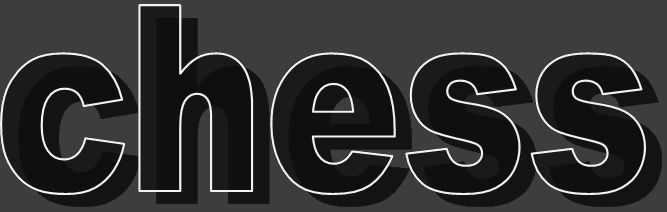
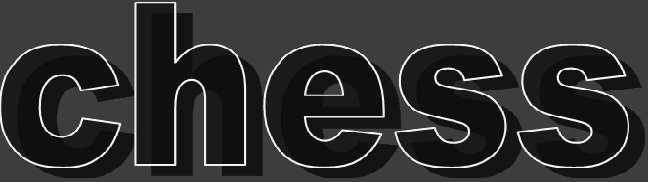
wojtektocfel

diff --git a/views/gui_view.py b/views/gui_view.py
@@ -13,12 +13,12 @@ from datetime import datetime
 class GuiView:
     def __init__(self):
         pygame.init()
-        self.SCREEN_WIDTH = 1200
-        self.SCREEN_HEIGHT = 900
+        self.SCREEN_WIDTH = 1000
+        self.SCREEN_HEIGHT = 750
         self.screen = pygame.display.set_mode((self.SCREEN_WIDTH, self.SCREEN_HEIGHT))
         pygame.display.set_caption("Chess Game")
         self.running = True
-        self.square_size = 750 // 8
+        self.square_size = 624 // 8
 
         self.button_text_color = (0,0,0)
         self.button_font = pygame.font.Font(None, 36)
@@ -113,8 +113,8 @@ class GuiView:
                     current_cursor = pygame.SYSTEM_CURSOR_ARROW
 
             # render images
-            self.render_image(self.pieces_menu_path,55,600)
-            self.render_image(self.chess_string_menu_path, 280,20)
+            self.render_image(self.pieces_menu_path,68,580)
+            self.render_image(self.chess_string_menu_path, 190,20)
 
             pygame.display.update()
         pygame.quit()
@@ -362,7 +362,7 @@ class GuiView:
 
     def display_header(self,font):
         legend_surface = font.render(f"Type{' ' * 15}Winner {' ' * 20} Action {' ' * 18} Moves {' ' * 32} Datetime",True, (255, 255, 255))
-        rect_x = 150
+        rect_x = 50
         rect_y = 200
         rect_width = 900
         rect_height = 45
@@ -396,7 +396,7 @@ class GuiView:
                         f"{type} {' ' * 17} Player {' ' * 55} {count} {' ' * 20 + str(self.__extract_date_from_filename(file))}",
                         True, (0, 0, 0))
             text_height = text_surface.get_height()
-            rect = pygame.Rect(150, y_offset, 900, text_height + 10)
+            rect = pygame.Rect(50, y_offset, 900, text_height + 10)
             file_rects.append((rect, file))
             pygame.draw.rect(self.screen, (255, 255, 255), rect)
             self.screen.blit(text_surface, (rect.x + 5, rect.y + 5))
@@ -443,19 +443,21 @@ class GuiView:
 
         pygame.mouse.set_cursor(pygame.SYSTEM_CURSOR_ARROW)
 
-        bot_files_list = sorted(bot_files.keys(), key=self.__extract_date_from_filename)[-8:]
-        multiplayer_files_list = sorted(multiplayer_files.keys(), key=self.__extract_date_from_filename)[-8:]
+        bot_files_list = sorted(bot_files.keys(), key=self.__extract_date_from_filename)[-7:]
+        multiplayer_files_list = sorted(multiplayer_files.keys(), key=self.__extract_date_from_filename)[-6:]
         bot_files = {file: bot_files[file] for file in bot_files_list}
         multiplayer_files = {file: multiplayer_files[file] for file in multiplayer_files_list}
         font = pygame.font.Font(None, 30)
+
 
         while True:
             self.screen.fill((61, 61, 59))
             mouse_pos = pygame.mouse.get_pos()
 
-            self.render_image(self.history_path, 240, 30)
+            self.render_image(self.history_path, 130, 30)
 
             self.display_header(font)
+
 
             y_offset = 250
 
@@ -464,6 +466,13 @@ class GuiView:
 
             y_offset, multiplayer_file_rects, analize_multiplayer_rects, auto_multiplayers_rects = self.draw_history_section(
                 multiplayer_files, y_offset, "Online", mouse_pos, font)
+
+            #przycisk quit
+            quit_button = pygame.Rect(50, self.SCREEN_HEIGHT - 43, 60, 35)
+            pygame.draw.rect(self.screen, (40, 40, 40), quit_button, border_radius=5)
+            quit_text = pygame.font.Font(None, 24).render("Quit", True, (255, 255, 255))
+            quit_text_rect = quit_text.get_rect(center=quit_button.center)
+            self.screen.blit(quit_text, quit_text_rect)
 
             pygame.display.flip()
 
@@ -488,3 +497,46 @@ class GuiView:
                         for rect, file in auto_multiplayers_rects:
                             if rect.collidepoint(mouse_pos):
                                 return HistoryOption.AUTOMATIC_GAME, file, 2
+
+                    if quit_button.collidepoint(mouse_pos):
+                        return HistoryOption.QUIT, None, -1
+
+    def get_user_input_for_analysis(self) -> str:
+        arrow_left = pygame.Rect(30, self.SCREEN_HEIGHT - 77, 50, 50)
+        arrow_right = pygame.Rect(100, self.SCREEN_HEIGHT - 77, 50, 50)
+        arrow_color = (0, 0, 0)
+        quit_button = pygame.Rect(self.SCREEN_WIDTH - 130, self.SCREEN_HEIGHT - 77, 70, 50)
+
+        waiting_for_input = True
+        while waiting_for_input:
+            self.render_border_image(arrow_right, radius=5, border_thickness=2)
+            self.render_border_image(arrow_left, radius=5, border_thickness=2)
+            pygame.draw.polygon(self.screen, arrow_color, [
+                (arrow_left.x + 10, arrow_left.centery),
+                (arrow_left.right - 10, arrow_left.top + 10),
+                (arrow_left.right - 10, arrow_left.bottom - 10)
+            ])
+
+            pygame.draw.polygon(self.screen, arrow_color, [
+                (arrow_right.right - 10, arrow_right.centery),
+                (arrow_right.left + 10, arrow_right.top + 10),
+                (arrow_right.left + 10, arrow_right.bottom - 10)
+            ])
+
+            pygame.draw.rect(self.screen, (40,40,40), quit_button, border_radius=5)
+            quit_text = pygame.font.Font(None, 24).render("Quit", True, (255, 255, 255))
+            quit_text_rect = quit_text.get_rect(center=quit_button.center)
+            self.screen.blit(quit_text, quit_text_rect)
+
+            pygame.display.update()
+
+            for event in pygame.event.get():
+                if event.type == pygame.MOUSEBUTTONDOWN and event.button == 1:
+                    if arrow_left.collidepoint(event.pos):
+                        return 'backward'
+                    elif arrow_right.collidepoint(event.pos):
+                        return 'forward'
+                    elif quit_button.collidepoint(event.pos):
+                        return 'quit'
+                elif event.type == pygame.QUIT:
+                    pygame.quit()

diff --git a/controllers/history_controller.py b/controllers/history_controller.py
@@ -92,7 +92,7 @@ class HistoryController:
                 else:
                     self.view.display_board(board)
             else:
-                self.view.end_game()
+                self.view.end_game("Press any key to continue...")
                 break
 
     def __automatic_game(self, moves: List[str]) -> None:
